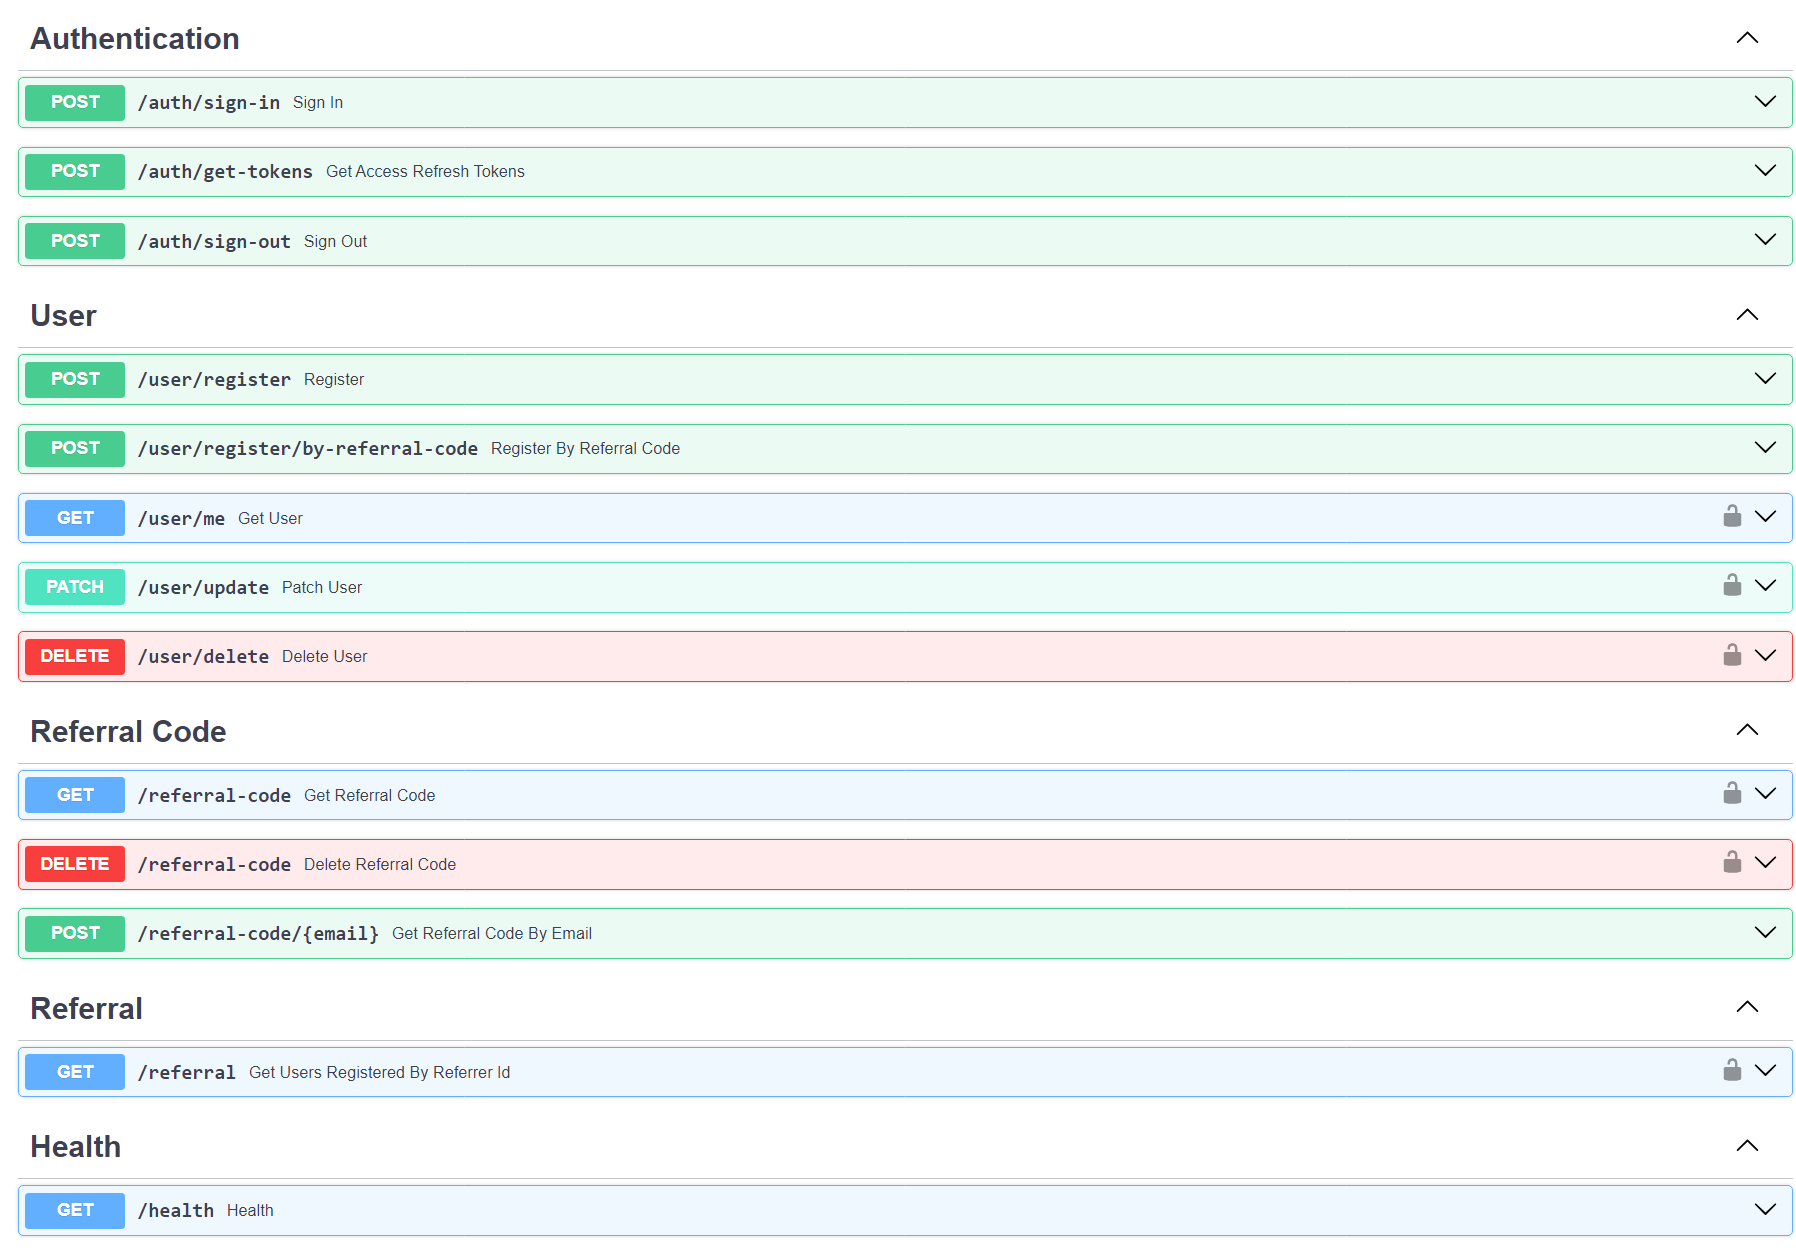
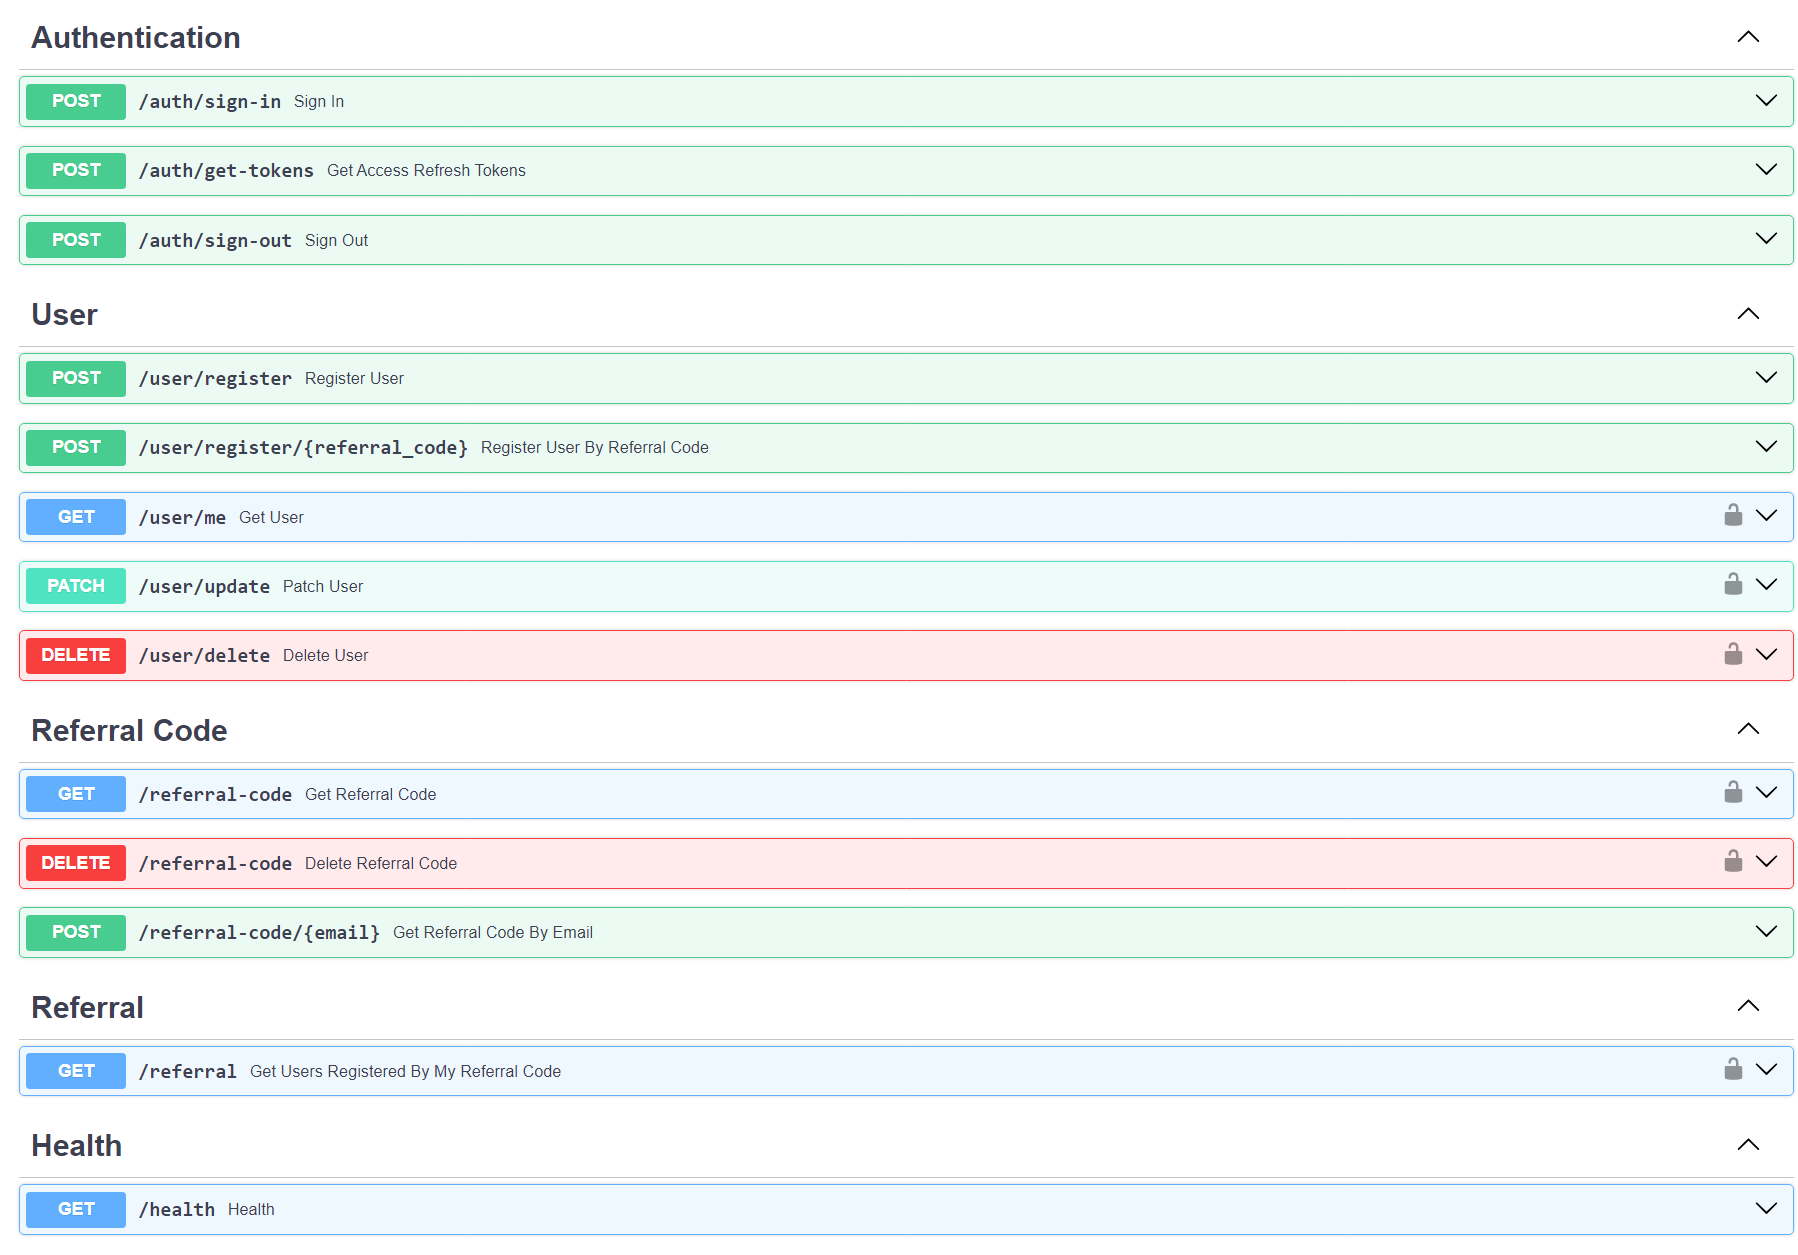
Edit swagger

diff --git a/src/api/user.py b/src/api/user.py
@@ -1,6 +1,6 @@
 from typing import Annotated
 
-from fastapi import APIRouter, Query
+from fastapi import APIRouter, Path, Query
 from starlette import status
 
 from api.docs import (
@@ -34,7 +34,7 @@ user_router = APIRouter(
     status_code=status.HTTP_201_CREATED,
     responses=register_responses,
 )
-async def register(
+async def register_user(
     user_data: UserCreate,
     uow: UOWDep,
 ) -> dict[str, str]:
@@ -47,16 +47,16 @@ async def register(
 
 
 @user_router.post(
-    path="/register/by-referral-code",
+    path="/register/{referral_code}",
     status_code=status.HTTP_201_CREATED,
     responses=register_with_referral_code_responses,
 )
-async def register_by_referral_code(
+async def register_user_by_referral_code(
     user_data: UserCreate,
     uow: UOWDep,
     referral_code: Annotated[
-        str | None,
-        Query(
+        str,
+        Path(
             min_length=settings_obj.NANO_ID_LENGTH,
             max_length=settings_obj.NANO_ID_LENGTH,
         ),

diff --git a/src/api/referral_code.py b/src/api/referral_code.py
@@ -71,8 +71,6 @@ async def get_referral_code_by_email(
 async def delete_referral_code(
     current_user: CurrentActiveUserDep,
     uow: UOWDep,
-    request: Request,
-    response: Response,
 ) -> None:
     referral_code_service = ReferralCodeService()
     await referral_code_service.delete_referral_code_by_user_id(

diff --git a/src/api/referral.py b/src/api/referral.py
@@ -17,7 +17,7 @@ referral_router = APIRouter(
     status_code=status.HTTP_200_OK,
     responses=referral_responses,
 )
-async def get_users_registered_by_referrer_id(
+async def get_users_registered_by_my_referral_code(
     current_user: CurrentActiveUserDep,
     uow: UOWDep,
 ) -> list[BaseUser] | None:
